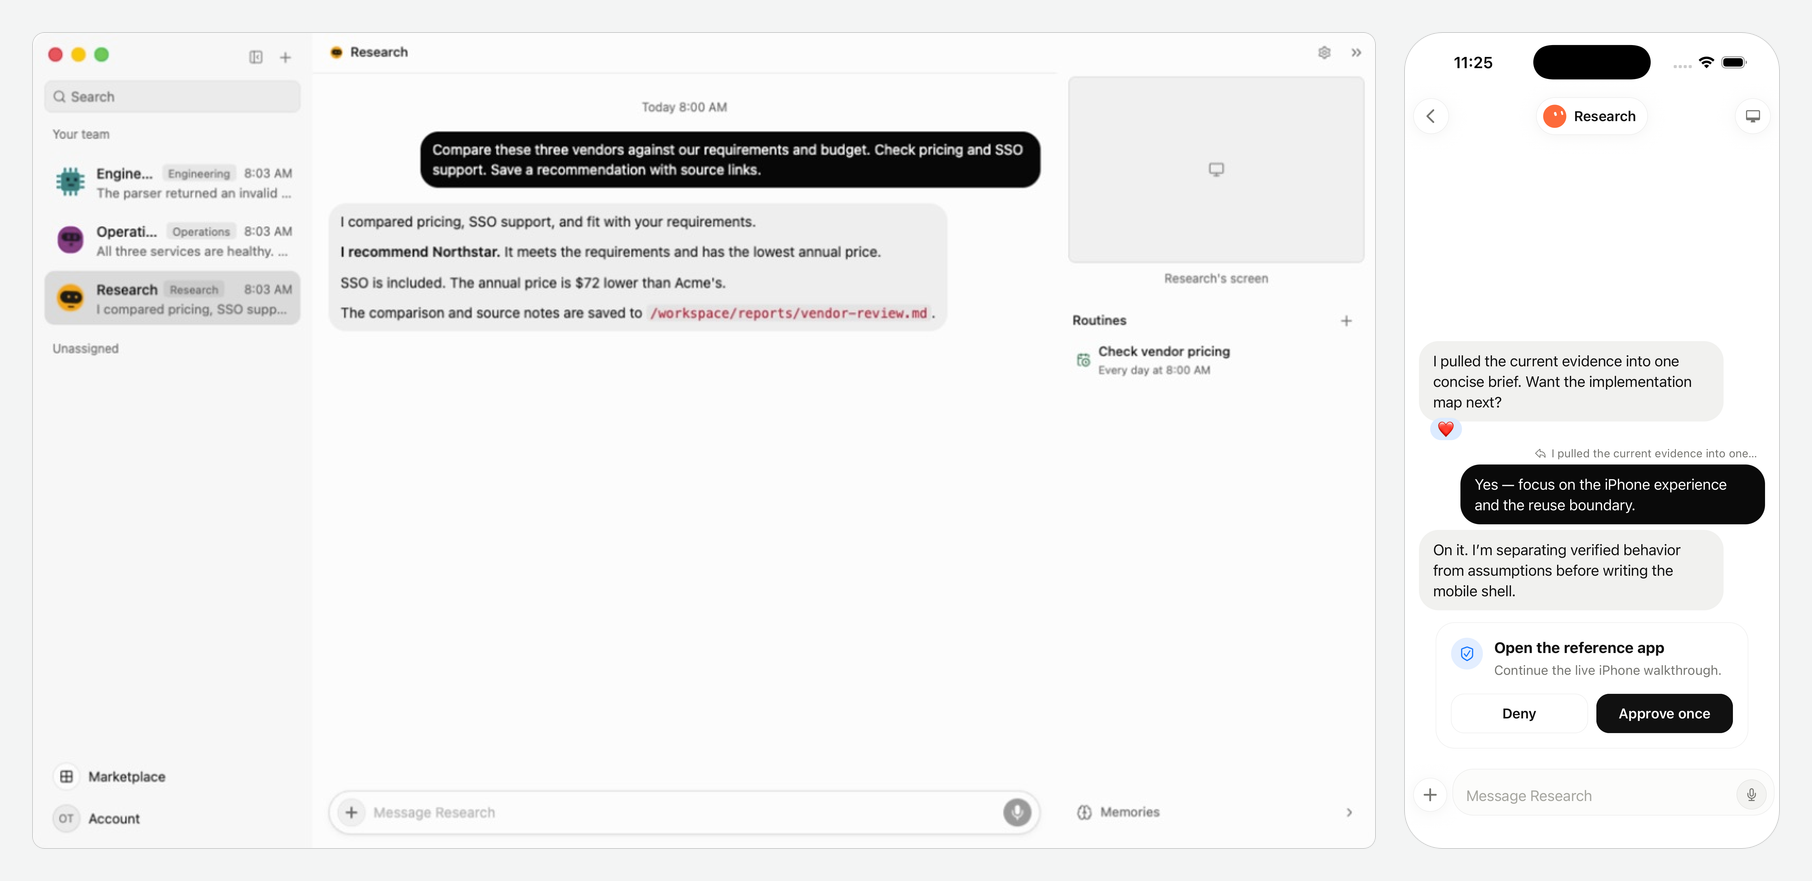
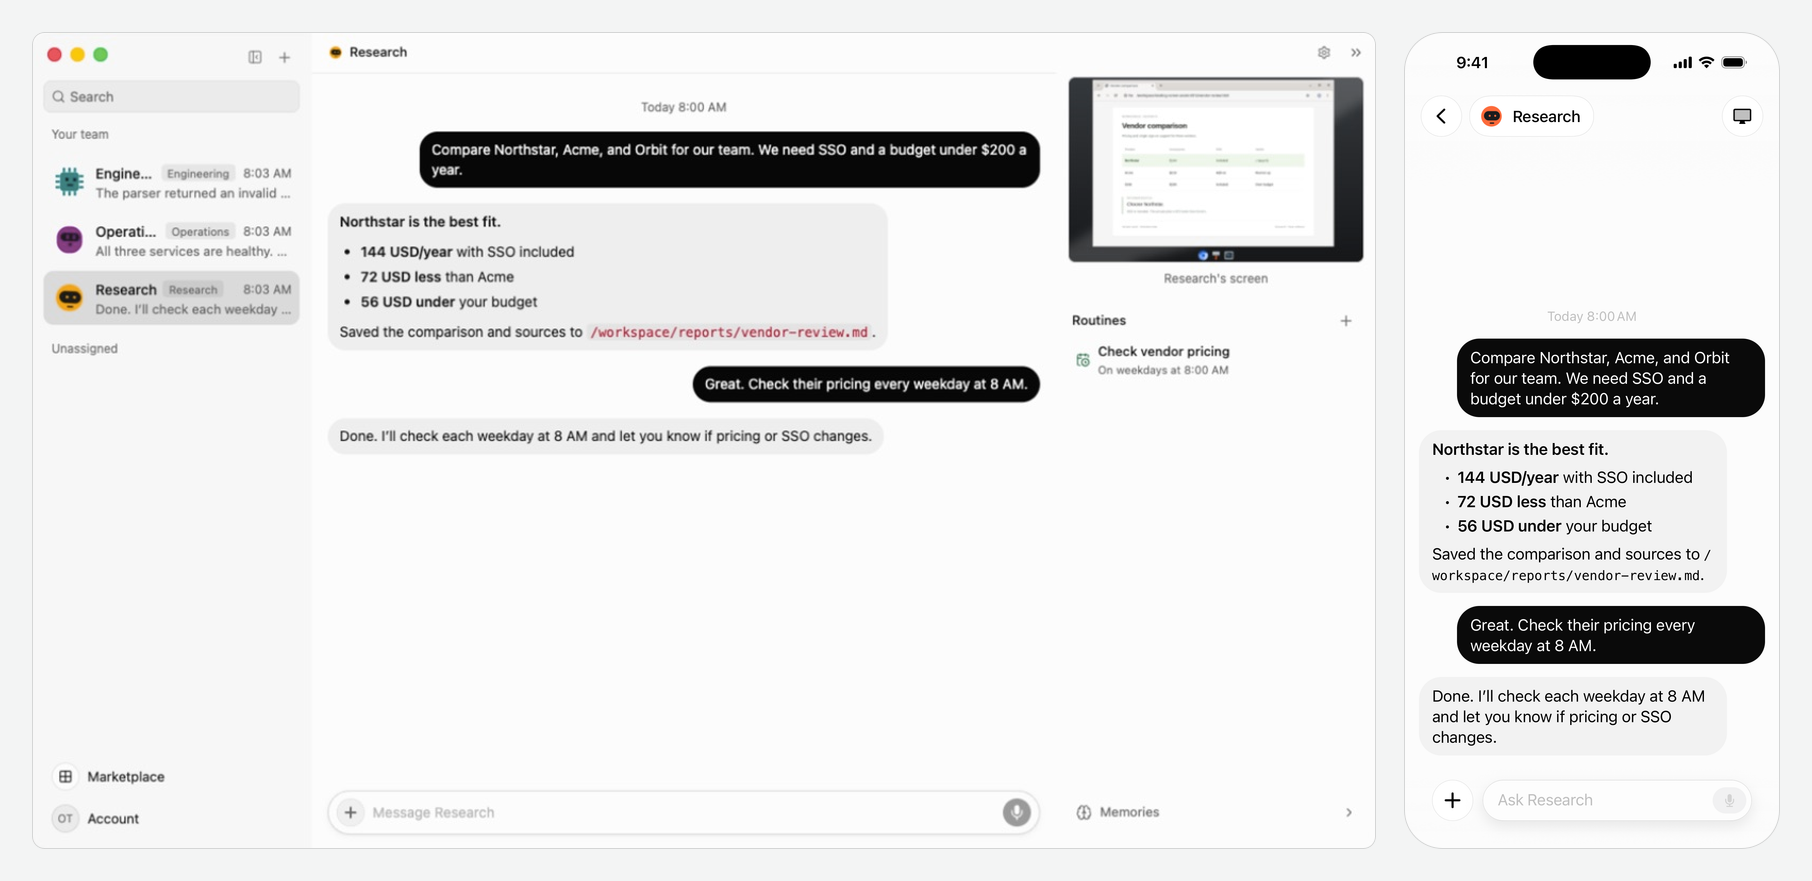
docs: clarify hosting and show one task across desktop and iPhone

diff --git a/apps/desktop/test/browser/landing-reference.tsx b/apps/desktop/test/browser/landing-reference.tsx
@@ -17,6 +17,7 @@ import { Inspector } from "../../src/renderer/components/openteam/inspector";
 import { Sidebar } from "../../src/renderer/components/openteam/sidebar";
 import { TooltipProvider } from "../../src/renderer/components/ui/tooltip";
 import type { SidebarPreferencesController } from "../../src/renderer/hooks/use-sidebar-preferences";
+import readmeConversation from "../../../../scripts/screenshots/readme-conversation.json";
 
 // Only synthetic records are supplied. Shipping components, fonts, tokens, and
 // CSS render the reference; no auth gate, app controller, or real transport runs.
@@ -76,7 +77,20 @@ const replies = [
   "All three services are healthy. API usage is up 12% since yesterday. I saved uptime and usage changes to `/workspace/reports/daily-check.csv`.",
   "The parser returned an invalid Date for empty input. I changed it to return null and added a regression test. All 24 tests pass. The diff is ready for review.",
 ];
-const messages: ChannelMessageView[] = channels.flatMap((channel, index) => [
+const readme = new URLSearchParams(window.location.search).has("readme");
+const messages: ChannelMessageView[] = channels.flatMap((channel, index) => readme && index === 0
+  ? readmeConversation.map((message, ordinal) => ({
+      id: `readme-message-${ordinal}`,
+      sequence: String(ordinal + 1),
+      channelId: channel.id,
+      sender: message.sender as "user" | "agent",
+      senderBotId: message.sender === "agent" ? bots[0]!.id : null,
+      sourceRunId: null,
+      content: message.content,
+      metadata: {},
+      createdAt: later(ordinal),
+    }))
+  : [
   {
     id: `${channel.id}-request`,
     sequence: String(index * 2 + 1),
@@ -155,6 +169,20 @@ const routine: RoutineView = {
   triggerPresentation: null,
 };
 api.routines = async () => [routine];
+if (readme) {
+  routine.schedule = "0 8 * * 1-5";
+  routine.schedules = [routine.schedule];
+  routine.cronExpression = routine.schedule;
+  api.screenStatus = async (botId) => ({
+    botId, state: "ready", width: 1280, height: 800, display: 100,
+    viewerUrl: "", humanTakeover: false, agentInputPaused: false,
+    apps: ["chromium"], browserProfileScope: "computer", browserSessionScope: "computer",
+    browserSessionMechanism: "shared-profiles", browserStateCoverage: [],
+    browserTargetRouting: "bot-owned-tabs",
+  });
+  // An actual Linux computer capture of the same illustrative comparison.
+  api.screenFrameUrl = () => new URL("../../../landing/public/screenshots/linux-vendor-review.png", import.meta.url).href;
+}
 const runtime: ClientSnapshot["runtime"] = {
   server: "ready",
   database: "ready",
@@ -245,7 +273,7 @@ function Reference() {
                     onSetMembers={noMutation}
                     onUpdateBot={noMutation}
                     onUpdateGroupProfile={noMutation}
-                    screenEnabled={false}
+                    screenEnabled={readme}
                   />
                 </div>
               ) : null}

diff --git a/apps/mobile/test/readme/entry.tsx b/apps/mobile/test/readme/entry.tsx
@@ -1,0 +1,25 @@
+import "react-native-gesture-handler";
+import { registerRootComponent } from "expo";
+import { ExpoRoot } from "expo-router";
+import { mobileFixture } from "../../src/fixtures";
+import conversation from "../../../../scripts/screenshots/readme-conversation.json";
+
+// Native screenshot entry point. Only sample records are used; no server is configured.
+const at = new Date();
+at.setHours(8, 0, 0, 0);
+mobileFixture.runs = [];
+mobileFixture.approvals = [];
+mobileFixture.channelMessages = conversation.map((message, index) => ({
+  id: `readme-message-${index}`,
+  sequence: String(index + 1),
+  channelId: "channel-research",
+  sender: message.sender as "user" | "agent",
+  senderBotId: message.sender === "agent" ? "bot-research" : null,
+  sourceRunId: null,
+  content: message.content,
+  metadata: {},
+  createdAt: new Date(at.getTime() + index * 60_000).toISOString(),
+}));
+
+const context = require.context("./routes", true, /\.[jt]sx?$/);
+registerRootComponent(() => <ExpoRoot context={context} />);

diff --git a/apps/mobile/test/readme/routes/_layout.tsx b/apps/mobile/test/readme/routes/_layout.tsx
@@ -1,0 +1,21 @@
+import { Stack } from "expo-router";
+import { StatusBar } from "expo-status-bar";
+import { GestureHandlerRootView } from "react-native-gesture-handler";
+import { SafeAreaProvider } from "react-native-safe-area-context";
+import { AppearanceProvider } from "../../../src/appearance";
+import { OpenTeamProvider } from "../../../src/state/openteam-context";
+
+export default function ReadmeLayout() {
+  return (
+    <GestureHandlerRootView style={{ flex: 1 }}>
+      <SafeAreaProvider>
+        <AppearanceProvider>
+          <StatusBar style="dark" />
+          <OpenTeamProvider>
+            <Stack screenOptions={{ headerShown: false }} />
+          </OpenTeamProvider>
+        </AppearanceProvider>
+      </SafeAreaProvider>
+    </GestureHandlerRootView>
+  );
+}

diff --git a/apps/mobile/test/readme/routes/index.tsx b/apps/mobile/test/readme/routes/index.tsx
@@ -1,0 +1,4 @@
+import { Redirect } from "expo-router";
+export default function Index() {
+  return <Redirect href="/chat/channel-research" />;
+}

diff --git a/apps/mobile/test/readme/routes/chat/[channelId].tsx b/apps/mobile/test/readme/routes/chat/[channelId].tsx
@@ -1,0 +1,1 @@
+export { default } from "../../../../app/chat/[channelId]";

diff --git a/docs/images/README.md b/docs/images/README.md
@@ -2,20 +2,41 @@
 
 `openteam-desktop-mobile.png` combines real interface captures, with the desktop on the left
 and the iPhone on the right. The desktop takes approximately 78% of the combined screenshot
-width. The conversations are sample data.
+width. Both apps show the same sample task: compare three vendors, save a recommendation,
+and schedule a weekday pricing check. The vendors and prices are illustrative.
 
-- `openteam-desktop.png`: captured on September 15, 2026 from the current desktop components
-  rendered by `apps/desktop/test/browser/landing-reference.tsx` in a native Electron window.
+- `openteam-desktop.png`: captured on September 16, 2026 from the current desktop components
+  rendered by `apps/desktop/test/browser/landing-reference.tsx` in README mode in a native Electron window.
   The window uses the app's `hiddenInset` title bar and traffic-light position, so the macOS
   window controls are part of the capture. Its 1344 × 817 layout is 30% narrower than the
   previous 1920-pixel capture. The capture tool's image is normalized to the window's logical
   dimensions and saved as PNG. The fixture uses the shipping sidebar, chat, inspector, fonts,
-  and styles with sample data; it does not connect to accounts or run bot tasks.
-- The mobile source is the existing native iPhone capture at
-  [`apps/landing/public/screenshots/openteam-mobile-chat.png`](../../apps/landing/public/screenshots/openteam-mobile-chat.png).
+  and styles with sample data; it does not connect to accounts or run bot tasks. Its computer
+  preview displays the real Linux capture at
+  [`apps/landing/public/screenshots/linux-vendor-review.png`](../../apps/landing/public/screenshots/linux-vendor-review.png).
+- `openteam-mobile.png`: captured on September 16, 2026 in a fresh iPhone 17 Pro simulator
+  running the native app's chat screen. The screenshot entry point is
+  [`apps/mobile/test/readme/entry.tsx`](../../apps/mobile/test/readme/entry.tsx); its separate
+  route layout supplies sample state without connecting to a server or changing app authentication.
+  The native capture is 1206 × 2622 pixels, with the status bar set to 9:41.
+- Both screenshot fixtures read
+  [`scripts/screenshots/readme-conversation.json`](../../scripts/screenshots/readme-conversation.json)
+  so their conversations stay consistent.
 
 The composite keeps the desktop at 1344 × 817 and scales the mobile capture proportionally
 to 376 × 817. A 28-pixel gap, 32-pixel outer margin, neutral background, rounded corners, and
 thin borders frame the screenshots. The final image is 1812 × 881 pixels. App content has
-not been redrawn or generated. The cursor highlight was removed by copying adjacent empty
-title-bar pixels over it; the rest of the desktop capture is unchanged.
+not been redrawn or generated. To exclude the capture tool's pointer marker, the desktop
+combines the unobstructed title bar and conversation area from two captures of the same window.
+
+## Capturing again
+
+Run the desktop Vite server and open `/test/browser/landing-reference.html?readme` in an
+Electron window configured with the dimensions and title bar above. For iPhone, bundle
+`test/readme/entry.tsx` from `apps/mobile` using `expo export:embed --platform ios`; include
+the exported assets in the simulator app, especially `www.bundle` for rich Markdown. Use a
+fresh simulator so existing connections and conversations cannot enter the capture.
+
+Capture both apps after the content has loaded, then scale and frame the images using the
+dimensions above. Keep the native controls, and check that every message and the computer
+preview are visible before replacing the README image.

diff --git a/README.md b/README.md
@@ -9,9 +9,9 @@ take over when needed, or come back when the work is done.
 [Get started](#get-started) · [Apps](#apps) · [Documentation](docs/README.md) ·
 [Develop from source](docs/development/from-source.md)
 
-[![OpenTeam desktop on the left and iPhone app on the right, showing sample conversations](docs/images/openteam-desktop-mobile.png)](docs/images/openteam-desktop-mobile.png)
+[![OpenTeam desktop and iPhone apps showing the same vendor comparison and weekday pricing check](docs/images/openteam-desktop-mobile.png)](docs/images/openteam-desktop-mobile.png)
 
-*Desktop and iPhone apps with sample conversations. Click to view full size.*
+*The same vendor comparison on desktop and iPhone, using sample data. Click to view full size.*
 
 ## What you can do
 
@@ -66,8 +66,7 @@ For a public HTTPS address or other connection options, use `openteam setup --ad
 and sign in with the account you just created. Create a bot and send it a task.
 
 The host and Docker must stay running for bots and routines to work. Server-side work continues
-when you close the app; keep the OpenTeam desktop app open for delegated tasks and access to
-your physical computer.
+when you close the app. Keep the desktop app open when bots need access to your physical computer.
 
 ## Apps
 
@@ -92,7 +91,7 @@ See [server commands](docs/manage/server.md), [remote access](docs/configuration
 
 ## Documentation
 
-- [Configuration](docs/README.md#configuration): model providers, server settings, remote access, and app preferences.
+- [Configuration](docs/configuration/server.md): model providers, server settings, remote access, and app preferences.
 - [Plugins and skills](docs/usage/plugins.md): connect accounts and control bot access.
 - [Architecture](docs/overview/architecture.md): how bots run, where data lives, and what persists.
 - [Development](docs/development/from-source.md): run from source, navigate the repository, and run checks.
